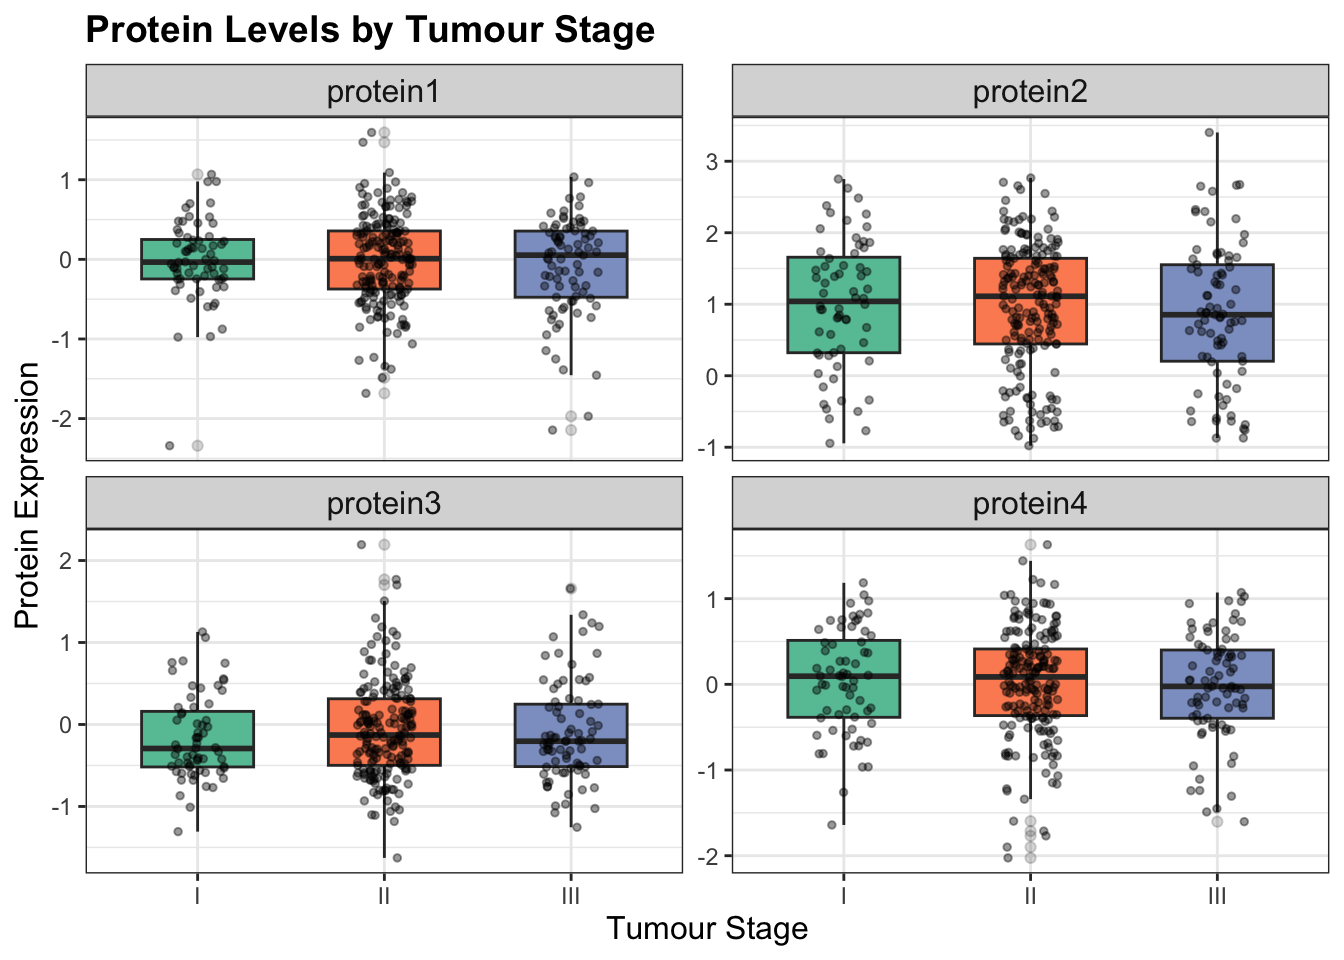
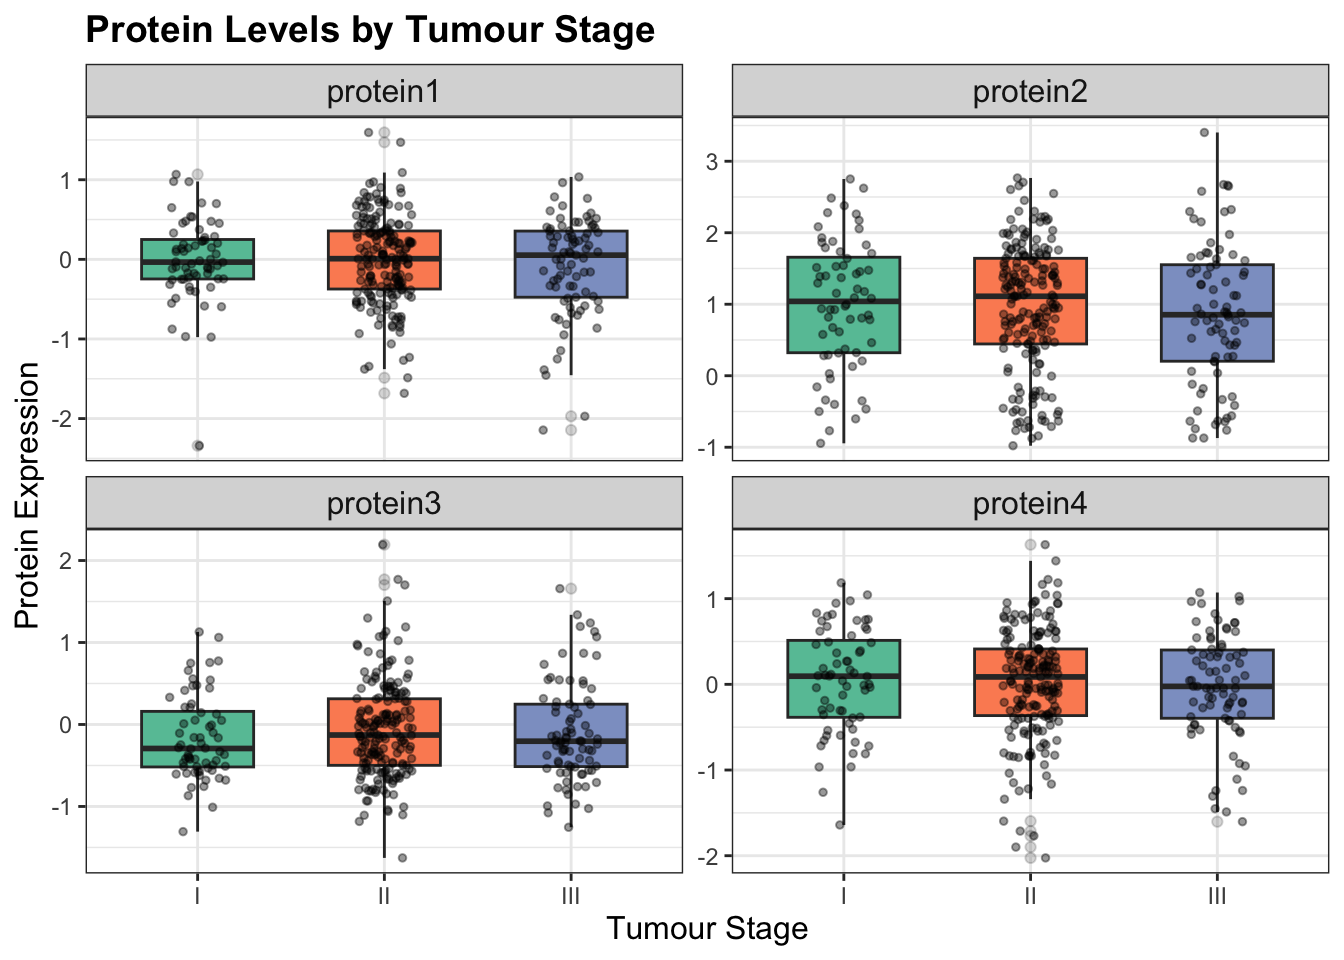
heather

diff --git a/docs/multi_log_reg.html b/docs/multi_log_reg.html
@@ -11,7 +11,7 @@
 
 
 
-<title>Data Processing</title>
+<title>Multiple Logistic Regression</title>
 
 <script src="site_libs/header-attrs-2.29/header-attrs.js"></script>
 <script src="site_libs/jquery-3.6.0/jquery-3.6.0.min.js"></script>
@@ -357,186 +357,141 @@ div.tocify {
 
 
 
-<h1 class="title toc-ignore">Data Processing</h1>
+<h1 class="title toc-ignore">Multiple Logistic Regression</h1>
 
 </div>
 
 
-<pre class="r"><code>knitr::opts_chunk$set(
-echo = TRUE,
-message = FALSE,
-warning = FALSE
-)
-
-library(tidyverse)
-library(janitor)</code></pre>
-<div id="source-and-study-population" class="section level1">
-<h1>Source and study population</h1>
-<p>This project uses a de-identified, publicly available breast cancer
-dataset obtained from Kaggle (<a
-href="https://www.kaggle.com/datasets/amandam1/breastcancerdataset/code"
-class="uri">https://www.kaggle.com/datasets/amandam1/breastcancerdataset/code</a>
-). The dataset includes 334 patients with primary breast cancer who
-underwent surgical treatment. For each patient, the file contains
-demographic information (age, gender), tumour characteristics (tumour
-stage, histology, ER/PR/HER2 receptor status), several protein
-biomarkers (Protein1–Protein4), treatment information (type of surgery),
-and follow-up data (date of surgery, date of last visit, and vital
-status).</p>
-<p>Before analysis, observations with missing patient_id were removed,
-as these corresponded to empty rows at the bottom of the file. For the
-survival analysis, we restricted to patients with non-missing dates of
-surgery and last follow-up, non-missing vital status, and non-negative
-follow-up time, resulting in 317 patients included in the Kaplan–Meier
-and log-rank analyses.</p>
-<pre class="r"><code>brca_df_raw = read_csv(&quot;BRCA.csv&quot;) |&gt;
-janitor::clean_names() |&gt;
-filter(!is.na(patient_id)) # remove empty rows at the bottom</code></pre>
+<div id="multiple-linear-regression-predicting-patient-status"
+class="section level1">
+<h1>4) Multiple linear regression: Predicting patient status</h1>
+<div id="model-specification" class="section level3">
+<h3>Model specification</h3>
+<ul>
+<li>Outcome: patient_status (Alive vs Dead).</li>
+<li>Predictors: age, tumour_stage, surgery_type, selected proteins.</li>
+<li>Brief rationale for selected predictors (based on EDA).</li>
+</ul>
 </div>
-<div id="variables" class="section level1">
-<h1>Variables</h1>
-<p>After cleaning the key columns are:</p>
-<p>patient_id: Unique identifier for each patient.</p>
-<p>age: Age at time of surgery (years), treated as a continuous
-covariate.</p>
-<p>gender: Patient sex (factor).</p>
-<p>protein1–protein4: Continuous protein biomarker measurements.</p>
-<p>tumour_stage: Clinical tumour stage at diagnosis (I, II, III),
-treated as an ordered factor.</p>
-<p>histology: Histological subtype of the breast tumour
-(categorical).</p>
-<p>er_status: Oestrogen receptor (ER) status (e.g.,
-Positive/Negative).</p>
-<p>pr_status: Progesterone receptor (PR) status.</p>
-<p>her2_status: HER2 receptor status.</p>
-<p>surgery_type: Type of surgery performed (e.g., lumpectomy,
-mastectomy).</p>
-<p>date_of_surgery: Calendar date of the primary breast cancer
-surgery.</p>
-<p>date_of_last_visit: Date of last recorded follow-up visit.</p>
-<p>patient_status: Vital status at last follow-up (Alive or Dead).</p>
-<p>The primary outcome for this project is patient_status, indicating
-whether the patient was alive or dead at last follow-up. For survival
-analysis, we use date_of_surgery and date_of_last_visit to define
-follow-up time (in days) and combine this with patient_status to create
-a time-to-event and censoring indicator.</p>
-<pre class="r"><code>brca = brca_df_raw |&gt; 
-  mutate( #categorical variables
-    gender       = factor(gender),
-    tumour_stage = factor(tumour_stage,
-                          levels = c(&quot;I&quot;, &quot;II&quot;, &quot;III&quot;),
-                          ordered = TRUE),
-    histology    = factor(histology),
-    er_status    = factor(er_status),
-    pr_status    = factor(pr_status),
-    her2_status  = factor(her2_status),
-    surgery_type = factor(surgery_type),
-    patient_status = factor(patient_status,
-                            levels = c(&quot;Alive&quot;, &quot;Dead&quot;)),
-    #date variables
-    date_of_surgery     = as.Date(date_of_surgery, format = &quot;%d-%b-%y&quot;),
-    date_of_last_visit  = as.Date(date_of_last_visit, format = &quot;%d-%b-%y&quot;),
+<div id="model-fitting" class="section level3">
+<h3>Model fitting</h3>
+<pre class="r"><code>brca =
+  brca %&gt;% 
+  mutate(
+    target = ifelse(patient_status == &quot;Dead&quot;, 1, 0)
+  )
 
-    # survival
-    follow_up_time = as.numeric(date_of_last_visit - date_of_surgery),
-    event = case_when(
-      patient_status == &quot;Dead&quot;  ~ 1L,
-      patient_status == &quot;Alive&quot; ~ 0L,
-      TRUE                      ~ NA_integer_
+brca_mlr =
+  brca %&gt;%  
+  glm(target ~ age + tumour_stage + surgery_type + protein1 + protein2 +
+        protein3 + protein4, data = .,
+      family = binomial(link = &quot;logit&quot;)
+  )</code></pre>
+<p>We fit a multiple logistic regression to predict mortality using
+clinical predictors such as <code>age</code>, <code>tumour_stage</code>,
+<code>surgery_type</code>, and the protein biomarkers
+(<code>protein1</code>-<code>protein4</code>). These predictors were
+selected based on exploratory analyses showing differences in survival
+outcomes across different groups.</p>
+</div>
+<div id="model-results" class="section level3">
+<h3>Model results</h3>
+<pre class="r"><code>brca_mlr %&gt;% 
+  broom::tidy(exponentiate = TRUE, conf.int = TRUE)</code></pre>
+<pre><code>## # A tibble: 11 × 7
+##    term                  estimate std.error statistic p.value conf.low conf.high
+##    &lt;chr&gt;                    &lt;dbl&gt;     &lt;dbl&gt;     &lt;dbl&gt;   &lt;dbl&gt;    &lt;dbl&gt;     &lt;dbl&gt;
+##  1 (Intercept)             0.0874    0.811     -3.01  0.00264   0.0172     0.417
+##  2 age                     1.00      0.0112     0.287 0.774     0.981      1.03 
+##  3 tumour_stage.L          1.33      0.332      0.852 0.394     0.699      2.59 
+##  4 tumour_stage.Q          0.950     0.238     -0.218 0.828     0.591      1.51 
+##  5 surgery_typeModified…   1.75      0.463      1.21  0.225     0.723      4.52 
+##  6 surgery_typeOther       2.24      0.441      1.83  0.0670    0.972      5.57 
+##  7 surgery_typeSimple M…   1.63      0.493      0.995 0.320     0.625      4.41 
+##  8 protein1                0.846     0.277     -0.602 0.547     0.492      1.46 
+##  9 protein2                1.39      0.175      1.89  0.0583    0.991      1.98 
+## 10 protein3                1.34      0.262      1.12  0.264     0.799      2.24 
+## 11 protein4                1.44      0.250      1.47  0.143     0.892      2.39</code></pre>
+<p>Model coefficient estimates were expressed as odds ratios. At the
+0.05 level, none of the predictors were statistically significant,
+though the proteins generally expressed a weak positive association with
+mortality. Tumor stage showed a slight increase in odds of death, but
+the confidence intervals were wide. Overall, the clinical and protein
+predictors demonstrated a weak association with patient status.</p>
+</div>
+<div id="model-performance-roc-auc" class="section level3">
+<h3>Model performance (ROC, AUC)</h3>
+<pre class="r"><code>roc_brca =
+  brca %&gt;% 
+  mutate(pred_prob = predict(brca_mlr, newdata = ., type = &quot;response&quot;)) %&gt;% 
+  roc(target, pred_prob) </code></pre>
+<pre><code>## Setting levels: control = 0, case = 1</code></pre>
+<pre><code>## Setting direction: controls &lt; cases</code></pre>
+<pre class="r"><code>roc_brca %&gt;% 
+  ggroc() +
+  labs(
+    title = &quot;ROC Curve for MLR Model&quot;,
+    x = &quot;False Positive Rate&quot;,
+    y = &quot;True Negative Rate&quot;
+  ) +
+  theme_minimal()</code></pre>
+<p><img src="multi_log_reg_files/figure-html/unnamed-chunk-3-1.png" width="672" /></p>
+<pre class="r"><code>auc(roc_brca)</code></pre>
+<pre><code>## Area under the curve: 0.623</code></pre>
+<p>The ROC curve suggests that the model was poor at distinguishing
+between patients who survived and passed away, with an AUC of 0.623.</p>
+</div>
+<div id="cross-validation" class="section level3">
+<h3>Cross-validation</h3>
+<pre class="r"><code>set.seed(123)
+
+cv_df = 
+  crossv_mc(brca, 5) %&gt;% 
+  mutate(
+    train = map(train, as_tibble),
+    test  = map(test,  as_tibble)
+  ) %&gt;% 
+  mutate(
+    mlr_mod = map(
+      .x = train,
+      ~ glm(
+          target ~ age + tumour_stage + surgery_type +
+            protein1 + protein2 + protein3 + protein4,
+          data   = .x,
+          family = binomial(link = &quot;logit&quot;)
+        )
+    ),
+    pred_prob = map2(
+      .x = mlr_mod,
+      .y = test,
+      ~ predict(.x, newdata = .y, type = &quot;response&quot;)
+    ),
+    auc = map2_dbl(
+      .x = pred_prob,
+      .y = test,
+      ~ pROC::auc(pROC::roc(.y$target, .x))
     )
   )</code></pre>
-<div id="source-and-study-population." class="section level3">
-<h3>Source and study population.</h3>
-<p>This project uses a de-identified, publicly available breast cancer
-dataset obtained from Kaggle (<a
-href="https://www.kaggle.com/datasets/amandam1/breastcancerdataset/code"
-class="uri">https://www.kaggle.com/datasets/amandam1/breastcancerdataset/code</a>).
-The dataset includes 334 patients with primary breast cancer who
-underwent surgical treatment. For each patient, the file contains
-demographic information (age, gender), tumour characteristics (tumour
-stage, histology, ER/PR/HER2 receptor status), several protein
-biomarkers (Protein1–Protein4), treatment information (type of surgery),
-and follow-up data (date of surgery, date of last visit, and vital
-status).</p>
-<p>Before analysis, observations with missing <code>patient_id</code>
-were removed, as these corresponded to empty rows at the bottom of the
-file. For the survival analysis, we restricted to patients with
-non-missing dates of surgery and last follow-up, non-missing vital
-status, and non-negative follow-up time, resulting in 317 patients
-included in the Kaplan–Meier and log-rank analyses.</p>
-</div>
-<div id="data-import-and-cleaning" class="section level3">
-<h3>Data import and cleaning</h3>
-<pre class="r"><code>brca_df_raw = read_csv(&quot;BRCA.csv&quot;) |&gt; 
-  janitor::clean_names() |&gt; 
-  filter(!is.na(patient_id)) #remove empty rows at the bottom</code></pre>
-<div id="variables-1" class="section level4">
-<h4>Variables</h4>
-<p>After <code>clean_names()</code>, your key columns are:</p>
-<ul>
-<li><code>patient_id</code>: Unique identifier for each patient.</li>
-<li><code>age</code>: Age at time of surgery (years), treated as a
-continuous covariate.</li>
-<li><code>gender</code>: Patient sex (factor).</li>
-<li><code>protein1</code>–<code>protein4</code>: Continuous protein
-biomarker measurements.</li>
-<li><code>tumour_stage</code>: Clinical tumour stage at diagnosis (I,
-II, III), treated as an ordered factor.</li>
-<li><code>histology</code>: Histological subtype of the breast tumour
-(categorical).</li>
-<li><code>er_status</code>: Oestrogen receptor (ER) status (e.g.,
-Positive/Negative).</li>
-<li><code>pr_status</code>: Progesterone receptor (PR) status.</li>
-<li><code>her2_status</code>: HER2 receptor status.</li>
-<li><code>surgery_type</code>: Type of surgery performed (e.g.,
-lumpectomy, mastectomy).</li>
-</ul>
-<p>Time variables</p>
-<ul>
-<li>Clarify outcome: patient status (Alive/Dead).</li>
-<li><code>date_of_surgery</code>: Calendar date of the primary breast
-cancer surgery.</li>
-<li><code>date_of_last_visit</code>: Date of last recorded follow-up
-visit.</li>
-<li><code>patient_status</code>: Vital status at last follow-up
-(<code>Alive</code> or <code>Dead</code>).</li>
-</ul>
-<p>The primary outcome for this project is
-<strong>patient_status</strong>, indicating whether the patient was
-alive or dead at last follow-up. For survival analysis, we use
-<code>date_of_surgery</code> and <code>date_of_last_visit</code> to
-define follow-up time (in days) and combine this with
-<code>patient_status</code> to create a time-to-event and censoring
-indicator.</p>
-</div>
-<div id="clean-data-types" class="section level4">
-<h4>Clean data types</h4>
-<pre class="r"><code>brca = brca_df_raw |&gt; 
-  mutate( #categorical variables
-    gender       = factor(gender),
-    tumour_stage = factor(tumour_stage,
-                          levels = c(&quot;I&quot;, &quot;II&quot;, &quot;III&quot;),
-                          ordered = TRUE),
-    histology    = factor(histology),
-    er_status    = factor(er_status),
-    pr_status    = factor(pr_status),
-    her2_status  = factor(her2_status),
-    surgery_type = factor(surgery_type),
-    patient_status = factor(patient_status,
-                            levels = c(&quot;Alive&quot;, &quot;Dead&quot;)),
-    #date variables
-    date_of_surgery     = as.Date(date_of_surgery, format = &quot;%d-%b-%y&quot;),
-    date_of_last_visit  = as.Date(date_of_last_visit, format = &quot;%d-%b-%y&quot;),
-
-    # survival
-    follow_up_time = as.numeric(date_of_last_visit - date_of_surgery),
-    event = case_when(
-      patient_status == &quot;Dead&quot;  ~ 1L,
-      patient_status == &quot;Alive&quot; ~ 0L,
-      TRUE                      ~ NA_integer_
-    )
+<pre><code>## Setting levels: control = 0, case = 1</code></pre>
+<pre><code>## Setting direction: controls &lt; cases</code></pre>
+<pre><code>## Setting levels: control = 0, case = 1</code></pre>
+<pre><code>## Setting direction: controls &gt; cases</code></pre>
+<pre><code>## Setting levels: control = 0, case = 1</code></pre>
+<pre><code>## Setting direction: controls &lt; cases</code></pre>
+<pre><code>## Setting levels: control = 0, case = 1</code></pre>
+<pre><code>## Setting direction: controls &gt; cases</code></pre>
+<pre><code>## Setting levels: control = 0, case = 1</code></pre>
+<pre><code>## Setting direction: controls &gt; cases</code></pre>
+<pre class="r"><code>cv_summary =
+  cv_df %&gt;% 
+  summarize(
+    mean_auc = mean(auc),
+    sd_auc   = sd(auc)
   )</code></pre>
-</div>
+<p>To assess generalizability, we performed a 5-fold cross-validation.
+The average cross-validated AUC was 0.543 with a standard deviation of
+0.058. These values suggest that this model was minimally better than
+randomly predicting patient status.</p>
 </div>
 </div>
 

diff --git a/docs/anova.html b/docs/anova.html
@@ -13,7 +13,7 @@
 
 <title>ANOVA</title>
 
-<script src="site_libs/header-attrs-2.22/header-attrs.js"></script>
+<script src="site_libs/header-attrs-2.29/header-attrs.js"></script>
 <script src="site_libs/jquery-3.6.0/jquery-3.6.0.min.js"></script>
 <meta name="viewport" content="width=device-width, initial-scale=1" />
 <link href="site_libs/bootstrap-3.3.5/css/journal.min.css" rel="stylesheet" />
@@ -332,10 +332,13 @@ div.tocify {
   <a href="about.html">About Us</a>
 </li>
 <li>
+  <a href="data_processing.html">Data Processing</a>
+</li>
+<li>
   <a href="multi_log_reg.html">Multiple Logisitic Regression</a>
 </li>
 <li>
-  <a href="data_processing.html">Data Processing</a>
+  <a href="anova.html">ANOVA</a>
 </li>
       </ul>
     </div><!--/.nav-collapse -->

diff --git a/docs/index.html b/docs/index.html
@@ -334,6 +334,12 @@ div.tocify {
 <li>
   <a href="data_processing.html">Data Processing</a>
 </li>
+<li>
+  <a href="multi_log_reg.html">Multiple Logisitic Regression</a>
+</li>
+<li>
+  <a href="anova.html">ANOVA</a>
+</li>
       </ul>
     </div><!--/.nav-collapse -->
   </div><!--/.container -->
@@ -371,6 +377,9 @@ biomarkers in the BRCA dataset, assess whether biomarker levels differ
 across patient groups, build a regression model to predict survival
 status, and conduct basic survival analysis to explore factors
 associated with follow-up outcomes.</p>
+<p style="text-align: center;">
+<img src="img/dataset-cover.jpg" alt="Breast cancer illustration" width="70%">
+</p>
 </div>
 <div id="data" class="section level3">
 <h3>2) Data</h3>

diff --git a/docs/about.html b/docs/about.html
@@ -328,6 +328,12 @@ div.tocify {
   <a href="about.html">About Us</a>
 </li>
 <li>
+  <a href="multi_log_reg.html">Multiple Logisitic Regression</a>
+</li>
+<li>
+  <a href="anova.html">ANOVA</a>
+</li>
+<li>
   <a href="data_processing.html">Data Processing</a>
 </li>
       </ul>
